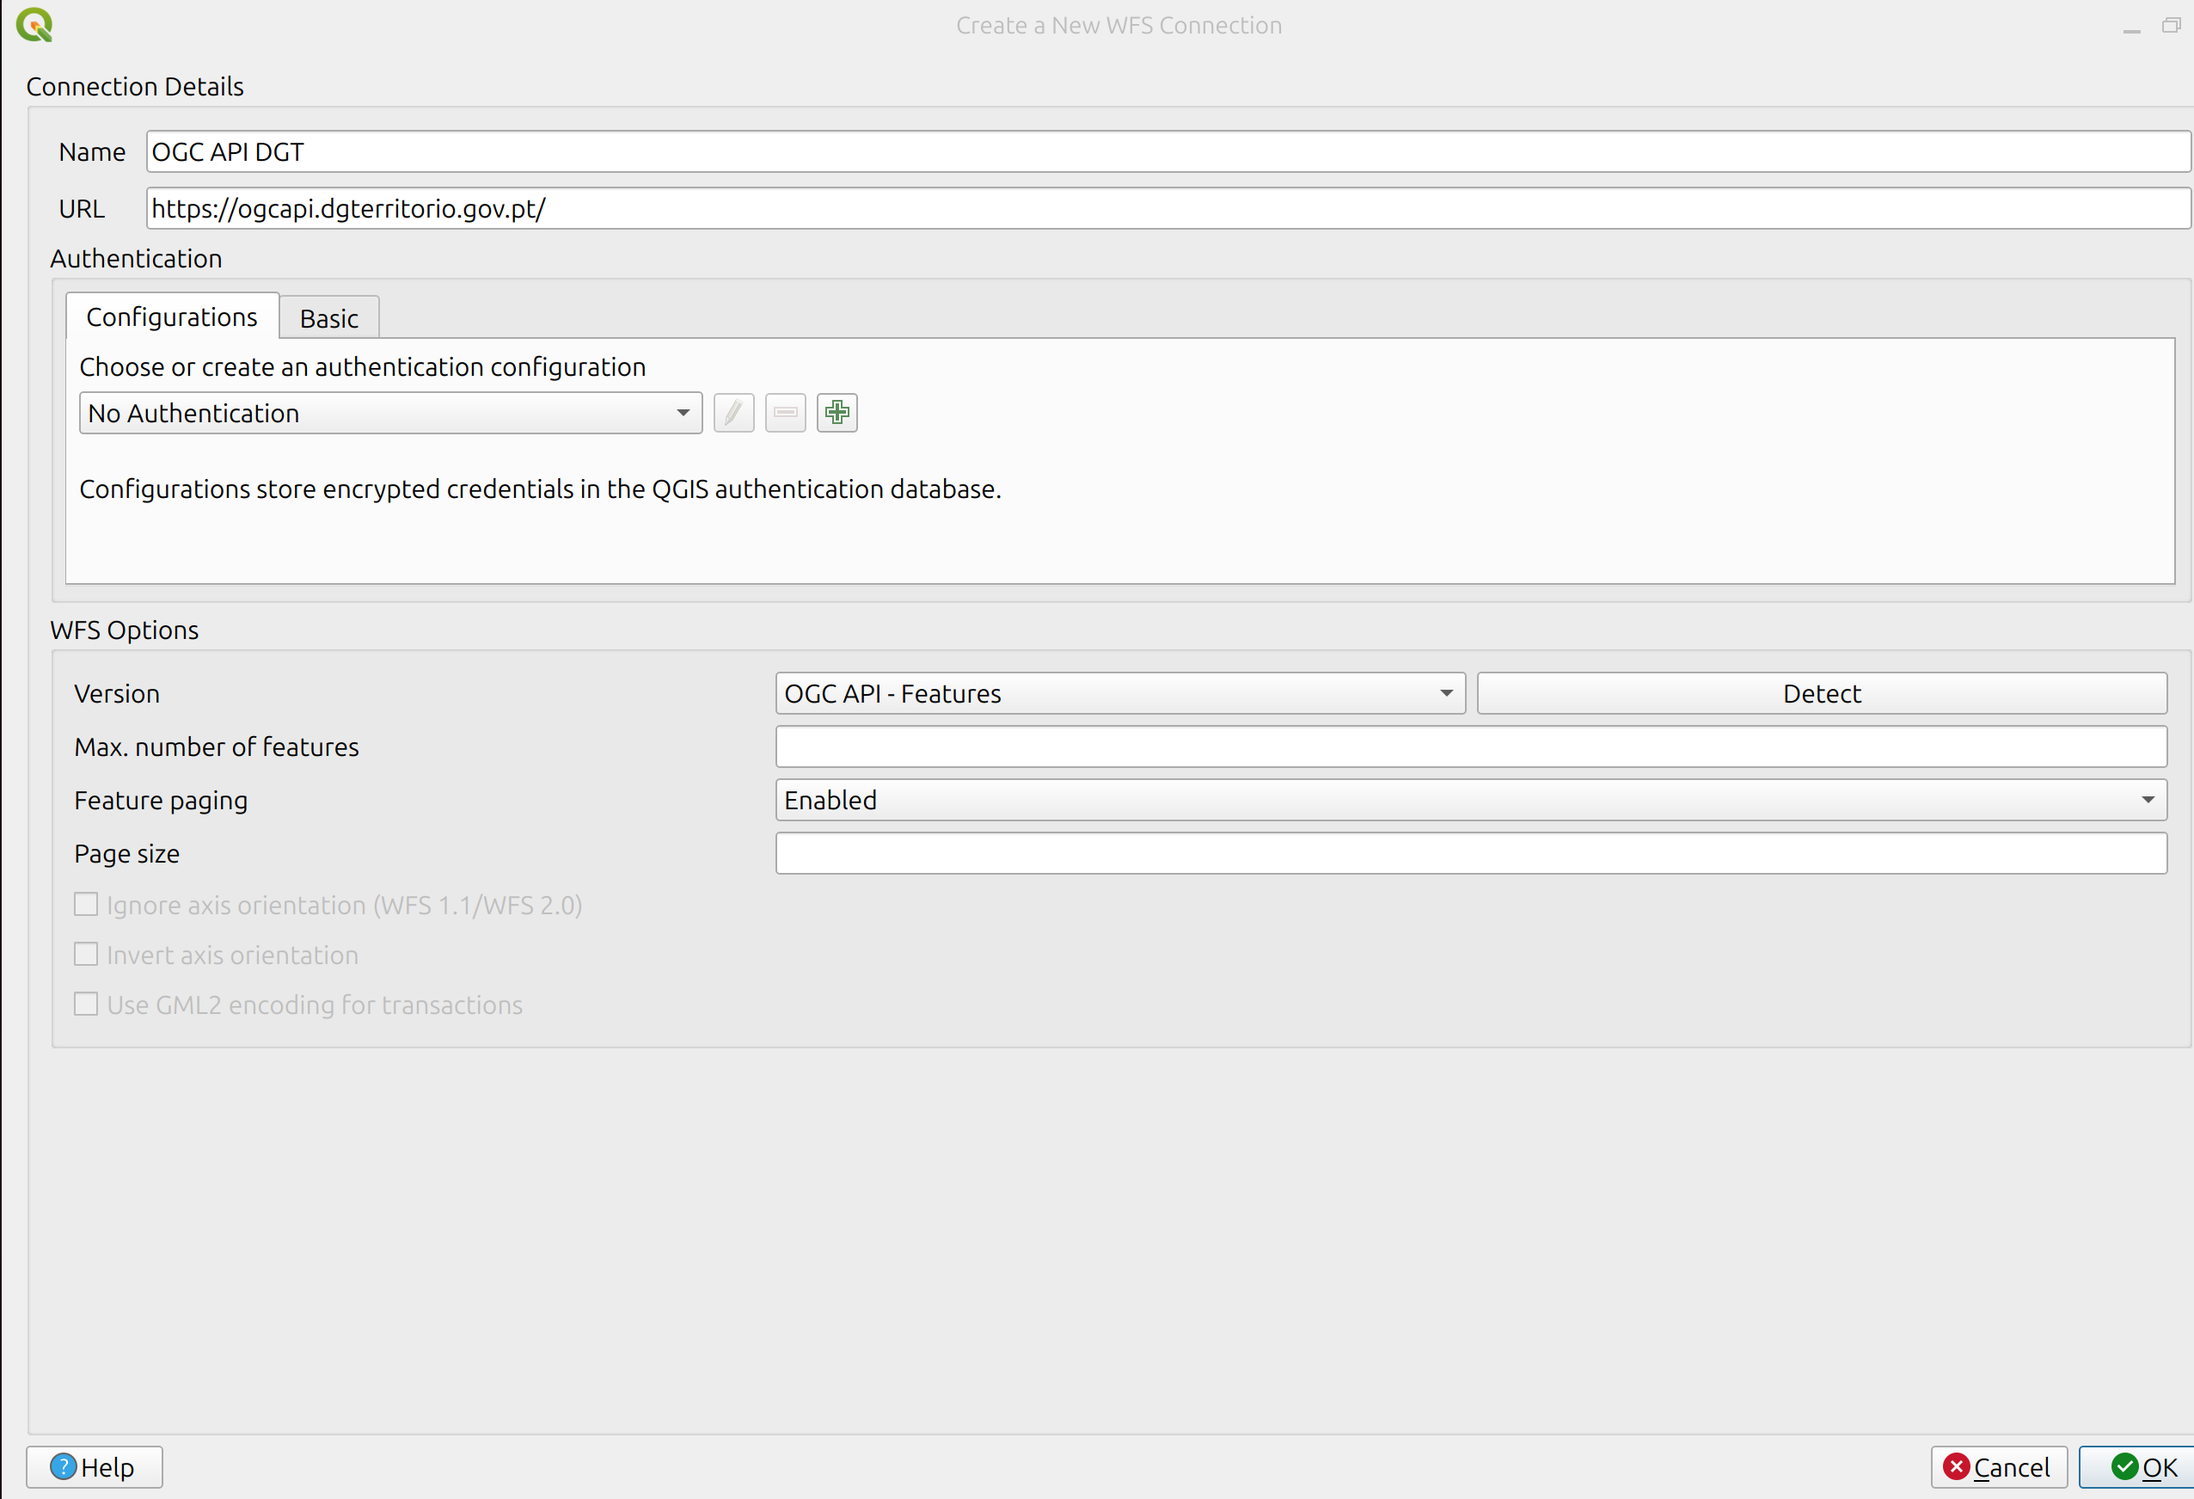
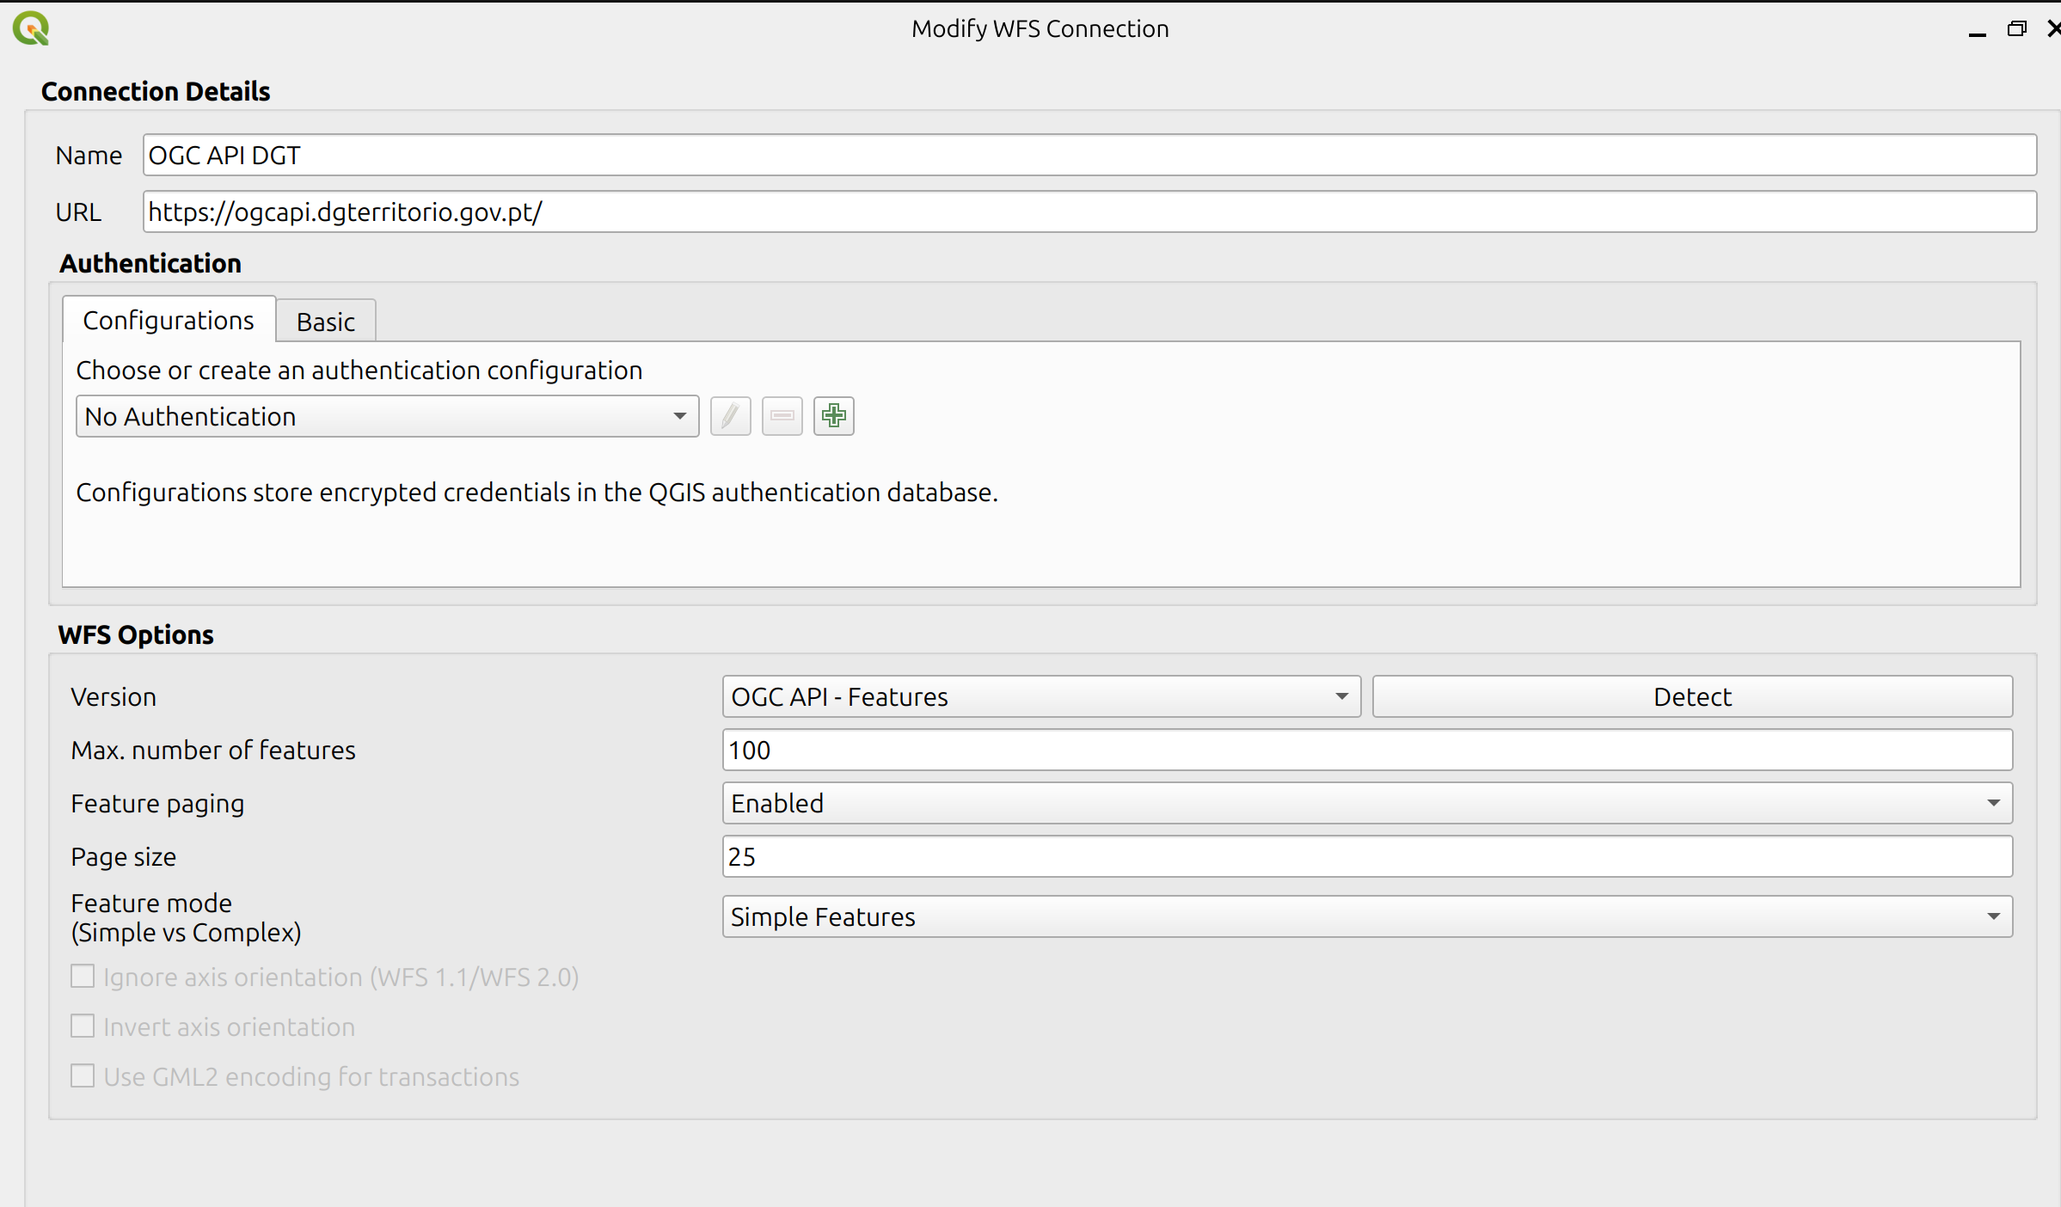
- updated client and faq sections

diff --git a/docs/perguntas.md b/docs/perguntas.md
@@ -8,11 +8,11 @@ Esta secção compila alguns problemas comuns que podem surgir, e as soluções 
     
     A OGC API da DGT suporta português e inglês, de acordo com a preferência do cliente. A pygeoapi segue um mecanismo Standard de HTTP, que procura satisfazer o header [`Accept-Language`](https://www.w3.org/Protocols/HTTP/HTRQ_Headers.html#z12) do pedido enviado pelo cliente. No caso de aceder á API através de um browser verifique se a língua que tem pre-definida é o inglês, o que explicaria obter uma resposta em inglês. 
 
-!!! tip
+    !!! tip
 
-    A pygeoapi permite forçar a resposta uma determinada língua, através do parâmetro `lang`. Por exemplo para obter uma resposta em português, independentemente da língua do cliente:
+        A pygeoapi permite forçar a resposta uma determinada língua, através do parâmetro `lang`. Por exemplo para obter uma resposta em português, independentemente da língua do cliente:
 
-    [https://ogcapi.dgterritorio.gov.pt/?lang=pt](https://ogcapi.dgterritorio.gov.pt/?lang=pt)
+        [https://ogcapi.dgterritorio.gov.pt/?lang=pt](https://ogcapi.dgterritorio.gov.pt/?lang=pt)
 
 !!! question
 
@@ -20,11 +20,11 @@ Esta secção compila alguns problemas comuns que podem surgir, e as soluções 
 
     A OGC API da DGT é uma API, desenhada para ser consumida por uma aplicação cliente (como o QGIS). A representação HTML dos endpoints é apenas um exemplo, que permite uma visualização mais simpática que um documento em JSON, mas não apresenta funcionalidades como pesquisas.
 
-!!! tip
+    !!! tip
 
-    Ao [criar uma ligação no QGIS com o endpoint da OGC API - Features](./clientes.md#ogc-api-features), é possível filtrar as colecções no servidor usando uma string (por exemplo `caop`).
+        Ao [criar uma ligação no QGIS com o endpoint da OGC API - Features](./clientes.md#ogc-api-features), é possível filtrar as colecções no servidor usando uma string (por exemplo `caop`).
 
-    ![Filtro OAF](img/filtro-oaf.png)
+        ![Filtro OAF](img/filtro-oaf.png)
 
 !!! question
 
@@ -34,17 +34,17 @@ Esta secção compila alguns problemas comuns que podem surgir, e as soluções 
 
     A OGC API usa um mecanismo de paging para evitar sobrecarregar o servidor e o cliente com muitos items. Por defeito, este serviço está configurado para servir 100 items de cada vez. 
     
-!!! tip
+    !!! tip
 
-    O número de items devolvidos pela OGC API - Features pode ser forçado através do parâmetro `limit`, até chegar ao limite configurado para o servidor. Por exemplo:
+        O número de items devolvidos pela OGC API - Features pode ser forçado através do parâmetro `limit`, até chegar ao limite configurado para o servidor. Por exemplo:
 
-    * [https://ogcapi.dgterritorio.gov.pt/collections/crus/items?limit=250](https://ogcapi.dgterritorio.gov.pt/collections/crus/items?limit=250)
-    * [https://ogcapi.dgterritorio.gov.pt/collections/crus/items?limit=10](https://ogcapi.dgterritorio.gov.pt/collections/crus/items?limit=10)
-    
-    
-    No caso de o `limit` ultrapassar o limite do servidor, não será apresentado nenhum erro, mas o número máximo de items permitidos será devolvido na resposta.
+        * [https://ogcapi.dgterritorio.gov.pt/collections/crus/items?limit=250](https://ogcapi.dgterritorio.gov.pt/collections/crus/items?limit=250)
+        * [https://ogcapi.dgterritorio.gov.pt/collections/crus/items?limit=10](https://ogcapi.dgterritorio.gov.pt/collections/crus/items?limit=10)
+        
+        
+        No caso de o `limit` ultrapassar o limite do servidor, não será apresentado nenhum erro, mas o número máximo de items permitidos será devolvido na resposta.
 
-    Mais detalhes sobre o parâmetro `limit`, incluindo uma explicação de como obter links para navegar através das colecções usando paging, podem ser consultados [nesta secção do Standard](https://docs.ogc.org/is/17-069r4/17-069r4.html#_combinations_of_filter_parameters).
+        Mais detalhes sobre o parâmetro `limit`, incluindo uma explicação de como obter links para navegar através das colecções usando paging, podem ser consultados [nesta secção do Standard](https://docs.ogc.org/is/17-069r4/17-069r4.html#_combinations_of_filter_parameters).
 
 !!! question
 
@@ -52,17 +52,49 @@ Esta secção compila alguns problemas comuns que podem surgir, e as soluções 
 
     As aplicações clientes podem estar a fazer outras operações quando estão a aceder aos items, como por exemplo fazer o rendering da visualização ou criar um cache. Estas operações podem afectar o tempo que o utilizador espera por uma resposta.
 
-!!! tip
+    !!! tip
 
-    Para avaliar o tempo real que a OGC API da DGT demora a responder, recomenda-se um processo mais directo de download, como por exemplo usando [curl](https://curl.se/) ou [wget](https://www.gnu.org/software/wget/) na linha de comandos.
+        Para avaliar o tempo real que a OGC API da DGT demora a responder, recomenda-se um processo mais directo de download, como por exemplo usando [curl](https://curl.se/) ou [wget](https://www.gnu.org/software/wget/) na linha de comandos.
 
-        wget 'https://ogcapi.dgterritorio.gov.pt/collections/crus/items?f=json&limit=5000' --2025-04-25 21:35:21--  https://ogcapi.dgterritorio.gov.pt/collections/crus/items?f=json&limit=5000
+            wget 'https://ogcapi.dgterritorio.gov.pt/collections/crus/items?f=json&limit=5000' --2025-04-25 21:35:21--  https://ogcapi.dgterritorio.gov.pt/collections/crus/items?f=json&limit=5000
 
-        Resolving ogcapi.dgterritorio.gov.pt (ogcapi.dgterritorio.gov.pt)... 193.137.95.231 Connecting to ogcapi.dgterritorio.gov.pt (ogcapi.dgterritorio.gov.pt)|193.137.95.231|:443... connected.
+            Resolving ogcapi.dgterritorio.gov.pt (ogcapi.dgterritorio.gov.pt)... 193.137.95.231 Connecting to ogcapi.dgterritorio.gov.pt (ogcapi.dgterritorio.gov.pt)|193.137.95.231|:443... connected.
 
-        HTTP request sent, awaiting response... 200 OK
-        Length: 60693514 (58M) [application/json]
-        Saving to: ‘items?f=json&limit=5000’
+            HTTP request sent, awaiting response... 200 OK
+            Length: 60693514 (58M) [application/json]
+            Saving to: ‘items?f=json&limit=5000’
 
-        items?f=json&limit= 100%[===================>]  57,88M  4,72MB/s    in 12s     
-        2025-04-25 21:35:36 (4,64 MB/s) - ‘items?f=json&limit=5000’ saved [60693514/60693514]
+            items?f=json&limit= 100%[===================>]  57,88M  4,72MB/s    in 12s     
+            2025-04-25 21:35:36 (4,64 MB/s) - ‘items?f=json&limit=5000’ saved [60693514/60693514]
+
+    Para melhorar o acesso a dados vectoriais, leia também a pergunta seguinte.    
+
+!!! question
+
+    *Qual é a melhor forma de aceder a coleções vectoriais no QGIS?*
+    
+    OGC API - Features está desenhada para permitir pesquisas (e.g.: bounding box, palavra chave, etc), devolvendo apenas a parte dos dados que nos interessa. Se estamos a pedir a totalidade dos dados para efeitos de visualização, a recomendação é usar OGC API - Tiles, que foram desenhadas especificamente para esse propósito e proporcionam uma melhor experiência de navegação (e.g.: zoomin, panning).  
+
+    !!! tip
+
+        As tiles vectoriais retém o acesso aos atributos, permitindo interrogar partes do mapa com a função ’identify’.
+
+        ![OAT 5](img/oat5.png)
+
+    No caso de realmente não estarmos interessados na totalidade dos dados, mas apenas uma parte, a recomendação é estabelecer esse filtro antes de aceder á colecção. 
+
+    !!! example
+
+        No exemplo abaixo, mostra-se um pedido da coleção "SRUP - Reserva Ecológica Nacional - Áreas", filtrada pela área de interesse.
+
+        ![OAF 9](img/oaf9.png)
+
+        ![OAF 10](img/oaf10.png)
+
+    !!! abstract
+
+    O diagrama abaixo descreve o processo de avaliação de acesso a colecções vectoriais.
+
+    ![oaf-workflow1](img/oaf-workflow1.png)
+
+    Salvo nos caso de colecções que já sabemos de antemão serem muito pequenas, a recomendação é nunca carregar colecções do tipo OGC API - Features sem filtros. Para explorar os dados, e visualizar-los, deve usar-se OGC API - Tiles.

diff --git a/docs/clientes.md b/docs/clientes.md
@@ -10,23 +10,31 @@ A lista de clientes que podem aceder a dados publicados em OGC API pode ser cons
 
     <table width='100%' align='center'><tr><td>QGIS version</td><td>3.40.6-Bratislava</td></tr><tr><td>QGIS code revision</td><td><a href="https://github.com/qgis/QGIS/commit/5d7f6a3e265">5d7f6a3e265</a></td></tr><tr><td colspan="2">&nbsp;</td></tr><tr><td colspan="2"><b>Libraries</b></td></tr><tr><td>Qt version</td><td>5.15.13</td></tr><tr><td>Python version</td><td>3.12.3</td></tr><tr><td>GDAL version</td><td>3.8.4</td></tr><tr><td>PROJ version</td><td>9.4.0</td></tr><tr><td>EPSG Registry database version</td><td>v11.004 (2024-02-24)</td></tr><tr><td>GEOS version</td><td>3.12.1-CAPI-1.18.1</td></tr><tr><td>SQLite version</td><td>3.45.1</td></tr><tr><td>PostgreSQL client version</td><td>16.8 (Ubuntu 16.8-0ubuntu0.24.04.1)</td></tr><tr><td>SpatiaLite version</td><td>5.1.0</td></td></tr><tr><td>QWT version</td><td>6.1.4</td></tr><tr><td>QScintilla2 version</td><td>2.14.1</td></tr><tr><td>OS version</td><td>Ubuntu 24.04.2 LTS</td></tr><tr><td colspan="2">&nbsp;</td></tr></table>
 
-
-
 ## OGC API - Features
 
 Para adicionar um layer do tipo "OGC API - Features", pode ser utilizado o browser do lado esquerdo, carregando no item "WFS/OGC API - Features" para chamar o context menu, e escolhendo "Nova Ligação". 
 
 ![OAF 1](img/oaf1.png)
 
-No passo seguinte, é aberta uma caixa de configuração para introduzir os dados da ligação. Na secção `url` deve ser introduzido o url da Landing Page da OGC API: [https://ogcapi.dgterritorio.gov.pt/](https://ogcapi.dgterritorio.gov.pt/). As opcões de WFS são facultativas.
+No passo seguinte, é aberta uma caixa de configuração para introduzir os dados da ligação. Na secção `url` deve ser introduzido o url da Landing Page da OGC API: [https://ogcapi.dgterritorio.gov.pt/](https://ogcapi.dgterritorio.gov.pt/).
 
 ![OAF 2](img/oaf2.png)
+
+!!! tip
+    
+    Opcões de WFS: para não sobrecarregar o QGIS e o servidor, recomenda-se estabelecer um número máximo de features, especialmente numa fase de exploração dos dados. Esse número pode ser sempre incrementado, se necessário. Para um número máximo de features de `100`, com uma paginação de `25`, o QGIS fará quatro pedidos ao servidor até satisfazer a quota máxima estabelecida de features; neste caso, 100.
 
 Ao pressionar `ok` para fechar a caixa anterior, uma nova ligação aparecerá listada debaixo da secção "WFS/OGC API - Features", no browser panel. Ao carregar nesse item para expandir-lo irão aparecer todas as colecções de OGC API - Features, disponíveis no servidor.
 
 ![OAF 6](img/oaf6.png)
 
 Qualquer uma destas colecções pode ser adicionada ao QGIS como layer, fazendo duplo click, ou carregando nela para chamar o menu de contexto e escolhendo "Add layer to project".
+
+!!! tip
+    
+    Para não sobrecarregar o QGIS e o servidor, recomenda-se aplicar filtros a coleções OGC API - Features **antes de carregar a colecção**. No caso de quereremos filtrar por um determinado atributo, podemos carregar no botão `build query` para construir o filtro. Se tivermos interesse por uma determinada área, a recomendação é de fazer zoom para a área de interesse **antes de carregar a colecção** e seleccionar a checkbox "Only select features overlaping the view extent". 
+    
+    ![OAF 7](img/oaf7.png)
 
 ![OAF 4](img/oaf4.png)
 
@@ -46,13 +54,11 @@ Na caixa de configuração deve-se indicar qual é o "source url" da colecção.
 
 !!! tip
     
-    Para obter "source url" da colecção pode-se consultar o endpoint de tileset metadata. Depois de identificar a colecção de interesse, através do [endpoint de colecções](https://ogcapi.dgterritorio.gov.pt/collections?f=html), carregar nessa colecção para obter a página da colecção. Por exemplo, se quiseremos os metadados de colecção de "CRUS ABRANTES", podemos carregar nesse link que nos leva até: [https://ogcapi.dgterritorio.gov.pt/collections/crus_abrantes](https://ogcapi.dgterritorio.gov.pt/collections/crus_abrantes). A última parte do url - `crus_abrantes`- é o nome da colecção.
+    Para obter "source url" da colecção pode-se consultar o endpoint de tileset metadata. Depois de identificar a colecção de interesse, através do [endpoint de colecções](https://ogcapi.dgterritorio.gov.pt/collections), carregar nessa colecção para obter a página da colecção. Por exemplo, se quiseremos os metadados de colecção de "CAOP2025 Municípios", podemos carregar nesse link que nos leva até: [https://ogcapi.dgterritorio.gov.pt/collections/municipios](https://ogcapi.dgterritorio.gov.pt/collections/municipios). A última parte do url - `municipios`- é o nome da colecção.
 
-    Para aceder ao tileset metadata, podemos substituir o `NOME` neste url, por `crus_abrantes`:
+    Para aceder ao tileset metadata, podemos substituir o `NOME` neste url, por `municipios`:
 
-    [https://ogcapi.dgterritorio.gov.pt/collections/NOME/tiles/WebMercatorQuad/metadata](https://ogcapi.dgterritorio.gov.pt/collections/crus_abrantes/tiles/WebMercatorQuad/metadata)
-
-    ![OAT 3](img/oat3.png)
+    [https://ogcapi.dgterritorio.gov.pt/collections/NOME/tiles/WebMercatorQuad/metadata](https://ogcapi.dgterritorio.gov.pt/collections/municipios/tiles/WebMercatorQuad/metadata)
 
     Acedendo a url podemos consultar o Tile URL template. 
 
@@ -68,8 +74,7 @@ Depois de aceitar esta configuração, a colecção irá aparecer listada debaix
 
 ## OGC API - Maps
 
-A infraestrutura OGC API da DGT disponibiliza duas colecções como OGC API - Maps:
-"OrtoSat 30 cm - Portugal Continental - 2023": Cor Verdadeira e Cor Falsa. Para acceder a qualquer uma destas colecções, começamos por identificar o endpoint da colecção através do [endpoint de colecções](https://ogcapi.dgterritorio.gov.pt/collections?f=html). Por exemplo para o tema "Cor Verdadeira":
+Para acceder a colecções disponibilizadas como OGC API - Maps, começamos por identificar o endpoint da colecção através do [endpoint de colecções](https://ogcapi.dgterritorio.gov.pt/collections?f=html). Por exemplo para o tema "OrtoSat 30 cm - Portugal Continental - 2023 (Cor Verdadeira)":
 
 * [https://ogcapi.dgterritorio.gov.pt/collections/ortos-rgb](https://ogcapi.dgterritorio.gov.pt/collections/ortos-rgb)
 
@@ -84,3 +89,31 @@ Através do menu "Layer", seleccionar a opção "Add Layer" e "Add Raster Layer"
 Na secção "OGC API - endpoint", deve-se preencher o url da colecção que identificámos acima e na `API`, escolher `map`. Todas as outras configurações são opcionais. Depois de aceitar esta configuração, a colecção será adicionada ao mapa.
 
 ![OAM 3](img/oam3.png)
+
+## OGC API - Records
+
+Actualmente a DGT disponibliza duas colecções como OGC API - Records: o "Sistema Nacional de Informação Geográfica - SNIG" e o "Portal de Informação Territorial - PoInT". Os respectivos endpoints podem ser identificados [endpoint de colecções](https://ogcapi.dgterritorio.gov.pt/collections).
+
+Para visualizar uma coleção OGC API - Records no QGIS, podemos utilizar o core plugin [MetaSearch](https://docs.qgis.org/3.40/en/docs/user_manual/plugins/core_plugins/plugins_metasearch.html), que já vem por defeito com a instalação do QGIS. É possível aceder ao plugin, através da opção "Web->MetaSearch->MetaSearch" no top level menu.
+
+![OAREC 1](img/oarec1.png)
+
+Carregar no botão `new` para adicionar um novo endpoint de Records, e na caixa de configuração, adicionar o url que identificámos na página de colecções.
+
+![OAREC 2](img/oarec2.png)
+
+Ao pressionar `Ok`, este endpoint será adicionado á lista, e podemos carregar no botão `service info`, para obter informações sobre este serviço.
+
+![OAREC 3](img/oarec3.png)
+
+!!! warning
+    
+    O QGIS poderá demorar algum tempo a fazer a comunicação, e perguntar ao utilizador se que esperar ou interromper o processo; para continuar, escolha esperar.
+
+Na tab `search` temos a possibilidade de listar os registos do catálogo e aplicar filtros, por bounding box ou palavra chave.
+
+![OAREC 4](img/oarec4.png)
+
+Carregue num registo para visualizar o seu conteúdo.
+
+![OAREC 5](img/oarec5.png)
